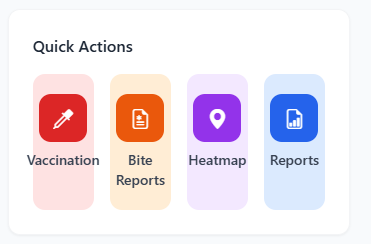
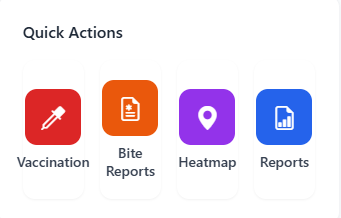
moving on

diff --git a/resources/views/dashboard/city-vet.blade.php b/resources/views/dashboard/city-vet.blade.php
@@ -168,30 +168,30 @@
         <!-- Quick Actions -->
         <div class="bg-white rounded-xl shadow-sm p-4 md:p-6 border border-gray-100">
             <h3 class="text-base font-semibold text-gray-800 mb-4">Quick Actions</h3>
-            <div class="grid grid-cols-2 md:grid-cols-4 gap-4">
-                <a href="{{ route('admin.vaccination-reports.index') }}" class="flex flex-col items-center p-4 md:p-5 bg-red-100 hover:bg-red-200 rounded-xl transition group hover:-translate-y-1">
-                    <div class="w-12 h-12 bg-red-600 rounded-xl flex items-center justify-center mb-2">
+            <div class="grid grid-cols-2 md:grid-cols-4 gap-3 md:gap-4">
+                <a href="{{ route('admin.vaccination-reports.index') }}" class="flex flex-col items-center justify-center p-3 md:p-4 bg-white rounded-xl shadow-sm transition group hover:-translate-y-1 h-full">
+                    <div class="w-12 h-12 md:w-14 md:h-14 bg-red-600 rounded-xl flex items-center justify-center mb-1 md:mb-2">
                         <i class="bi bi-eyedropper text-white text-lg md:text-xl"></i>
                     </div>
-                    <span class="text-xs md:text-sm font-medium text-gray-700 text-center">Vaccination</span>
+                    <span class="text-xs md:text-sm font-semibold text-gray-700 text-center leading-tight whitespace-nowrap">Vaccination</span>
                 </a>
-                <a href="{{ route('city-vet.rabies-bite-reports.index') }}" class="flex flex-col items-center p-4 md:p-5 bg-orange-100 hover:bg-orange-200 rounded-xl transition group hover:-translate-y-1">
-                    <div class="w-12 h-12 bg-orange-600 rounded-xl flex items-center justify-center mb-2">
+                <a href="{{ route('city-vet.rabies-bite-reports.index') }}" class="flex flex-col items-center justify-center p-3 md:p-4 bg-white rounded-xl shadow-sm transition group hover:-translate-y-1 h-full">
+                    <div class="w-12 h-12 md:w-14 md:h-14 bg-orange-600 rounded-xl flex items-center justify-center mb-1 md:mb-2">
                         <i class="bi bi-file-earmark-medical text-white text-lg md:text-xl"></i>
                     </div>
-                    <span class="text-xs md:text-sm font-medium text-gray-700 text-center">Bite Reports</span>
+                    <span class="text-xs md:text-sm font-semibold text-gray-700 text-center leading-tight whitespace-nowrap">Bite Reports</span>
                 </a>
-                <a href="{{ route('city-vet.rabies-geomap') }}" class="flex flex-col items-center p-4 md:p-5 bg-purple-100 hover:bg-purple-200 rounded-xl transition group hover:-translate-y-1">
-                    <div class="w-12 h-12 bg-purple-600 rounded-xl flex items-center justify-center mb-2">
+                <a href="{{ route('city-vet.rabies-geomap') }}" class="flex flex-col items-center justify-center p-3 md:p-4 bg-white rounded-xl shadow-sm transition group hover:-translate-y-1 h-full">
+                    <div class="w-12 h-12 md:w-14 md:h-14 bg-purple-600 rounded-xl flex items-center justify-center mb-1 md:mb-2">
                         <i class="bi bi-geo-alt-fill text-white text-lg md:text-xl"></i>
                     </div>
-                    <span class="text-xs md:text-sm font-medium text-gray-700 text-center">Heatmap</span>
+                    <span class="text-xs md:text-sm font-semibold text-gray-700 text-center leading-tight whitespace-nowrap">Heatmap</span>
                 </a>
-                <a href="{{ route('admin.all-reports') }}" class="flex flex-col items-center p-4 md:p-5 bg-blue-100 hover:bg-blue-200 rounded-xl transition group hover:-translate-y-1">
-                    <div class="w-12 h-12 bg-blue-600 rounded-xl flex items-center justify-center mb-2">
+                <a href="{{ route('admin.all-reports') }}" class="flex flex-col items-center justify-center p-3 md:p-4 bg-white rounded-xl shadow-sm transition group hover:-translate-y-1 h-full">
+                    <div class="w-12 h-12 md:w-14 md:h-14 bg-blue-600 rounded-xl flex items-center justify-center mb-1 md:mb-2">
                         <i class="bi bi-file-earmark-bar-graph text-white text-lg md:text-xl"></i>
                     </div>
-                    <span class="text-xs md:text-sm font-medium text-gray-700 text-center">Reports</span>
+                    <span class="text-xs md:text-sm font-semibold text-gray-700 text-center leading-tight whitespace-nowrap">Reports</span>
                 </a>
             </div>
         </div>